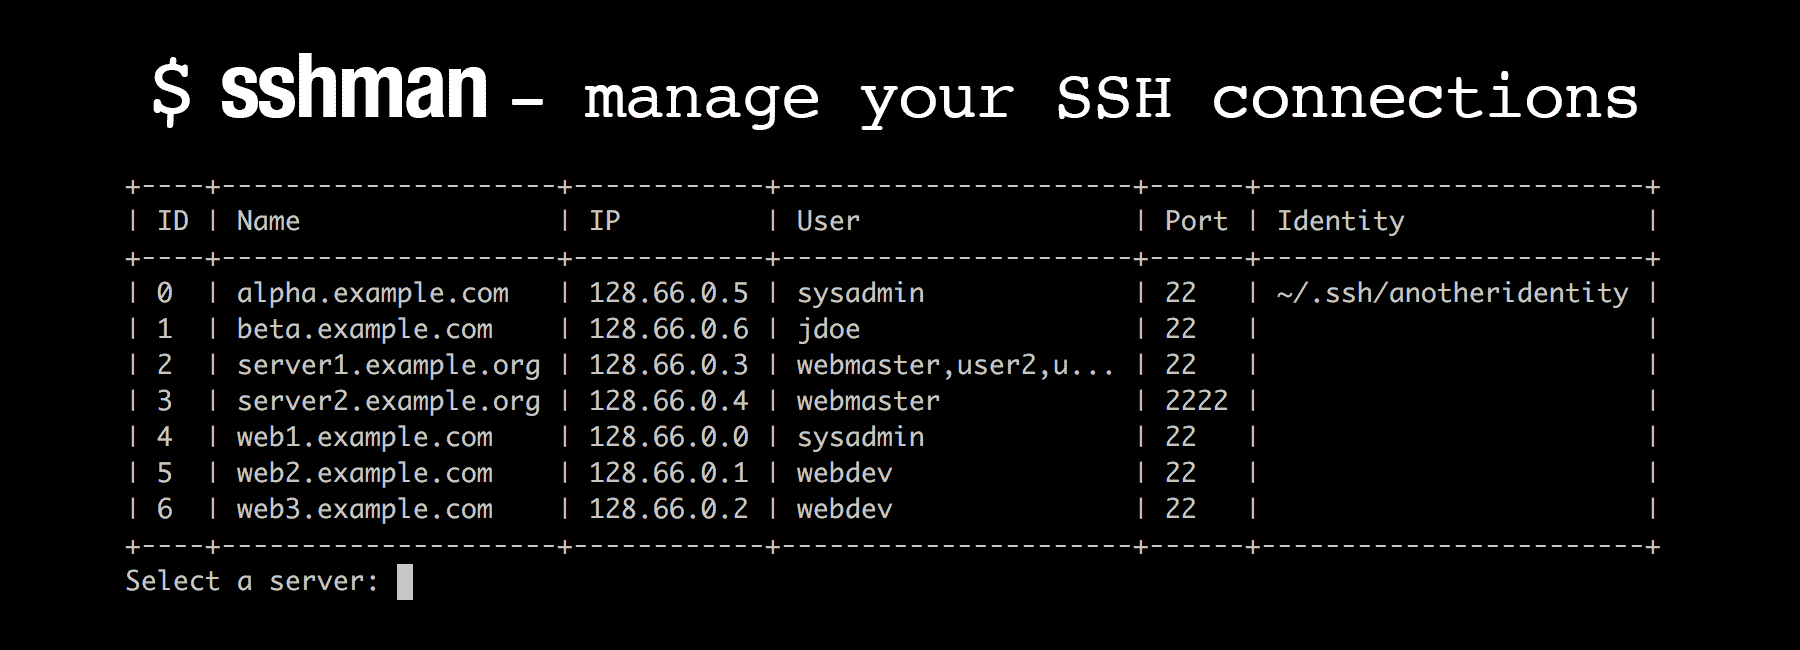
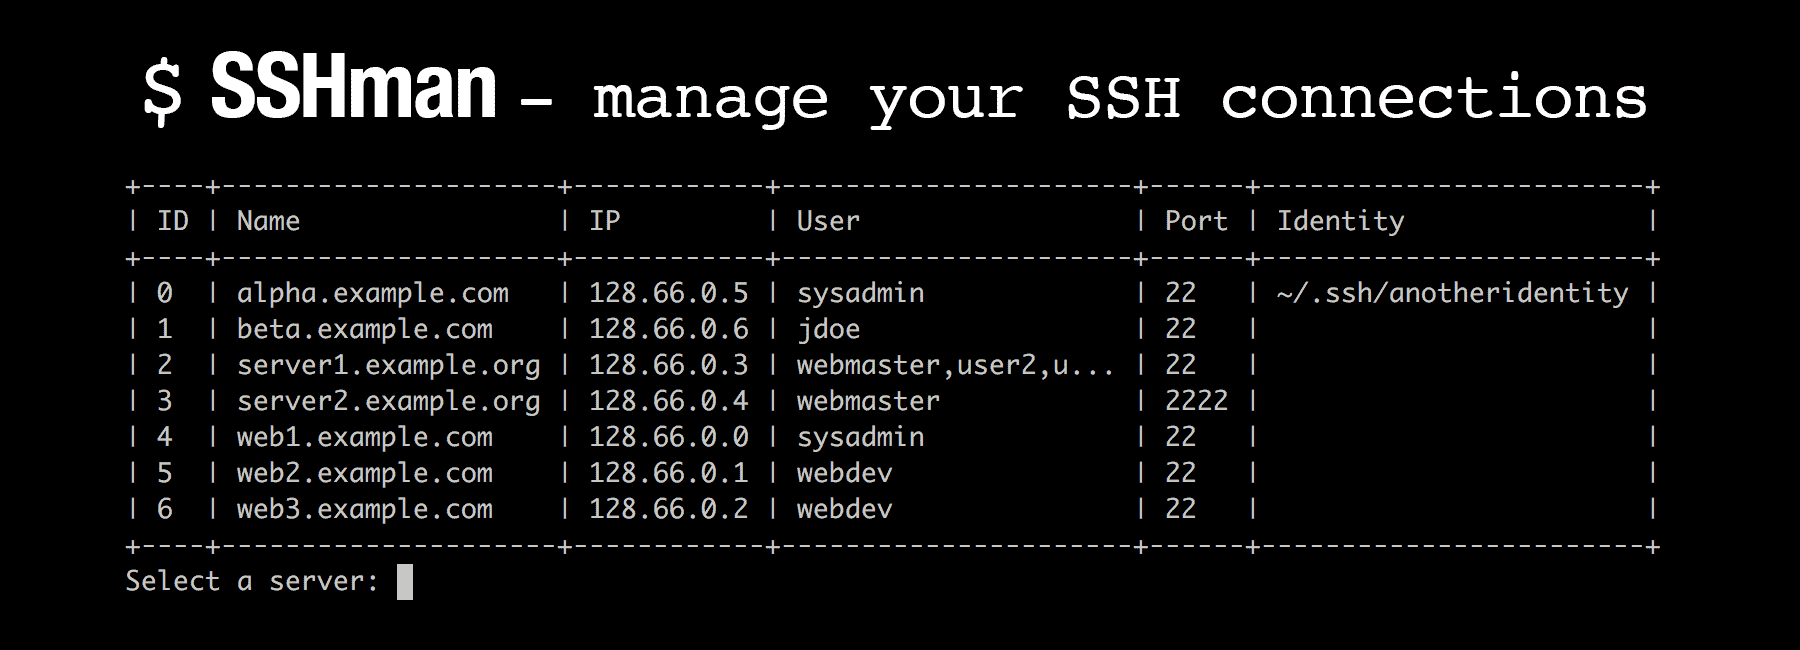
Final cleanup before v1.0.0, adding --help and --version options

Changed region(s): [[0.3111, 0.0923, 0.9333, 0.2154], [0.0622, 0.0615, 0.28, 0.1846]]

diff --git a/lib/fns/getopt.php b/lib/fns/getopt.php
@@ -1,0 +1,37 @@
+<?php
+
+namespace sshman\lib\fns\getopt;
+
+$options = getopt( 'vh', ['version','help'] );
+if( isset( $options['v'] ) || isset( $options['version'] ) ){
+    $version = file_get_contents('VERSION');
+    echo "\033[33m" . '[SSHman](https://github.com/mwender/sshman) - Version ' . $version . "\033[0m" . "\n\n";
+    display_file( 'LICENSE' );
+    exit;
+}
+if( isset( $options['h'] ) || isset( $options['help'] ) ){
+    display_file( 'HELP' );
+    exit;
+}
+
+function display_file( $file ){
+  if( empty( $file ) )
+    return false;
+
+  if( ! file_exists( $file ) )
+    return false;
+
+  $contents = file( $file );
+  foreach( $contents as $line ){
+    if( stristr( $line, '{version}') ){
+      $version = file_get_contents('VERSION');
+      $line = str_replace( '{version}', $version, $line );
+    }
+
+    if( '# ' == substr( $line, 0, 2 ) )
+      $line = "\033[33m" . substr($line, 2 ) . "\033[0m";
+    echo $line;
+  }
+
+  return true;
+}

diff --git a/sshman.php b/sshman.php
@@ -1,7 +1,8 @@
 #!/usr/bin/env php
 <?php
 require 'vendor/autoload.php';
-require 'lib/fns/fns.helpers.php';
+require 'lib/fns/helpers.php';
+require 'lib/fns/getopt.php';
 
 /**
  * OS CHECK
@@ -80,21 +81,6 @@ $users = array(
 
 // LOGIC
 echo exec( 'clear' );
-
-// Sub-commands via the first argument passed
-if( ! empty( $argv[1] ) ){
-	$parameter1 = $argv[1];
-	switch ( $parameter1 ) {
-		case 'update':
-			require_once('lib/fns/update.php');
-			exit;
-		break;
-		case 'rollback':
-			require_once('lib/fns/rollback.php');
-			exit;
-		break;
-	}
-}
 
 // Select a server
 $servers_table->display();

diff --git a/readme.md b/readme.md
@@ -1,14 +1,14 @@
-# sshman
+# SSHman - *manage your SSH connections*
 
-![sshman - manage your SSH connections](https://raw.githubusercontent.com/mwender/sshman/master/lib/img/sshman-image.png)
+![SSHman - manage your SSH connections](https://raw.githubusercontent.com/mwender/sshman/master/lib/img/sshman-image.png)
 
-A command line tool for managing your ssh connections.
+*SSHman* is a command line tool for managing your ssh connections.
 
 ## Installation
 
-*sshman* is available for installation on your system via [PHIVE](https://phar.io). Once you've installed PHIVE on your system, you can install *sshman* with the following command:
+*SSHman* is currently available for MacOS only. Install it on your system via [PHIVE](https://phar.io). Once you've installed PHIVE on your system, you can install *SSHman* with the following command:
 
-$`phive install mwender/sshman`
+$`phive install sshman`
 
 Installing with PHIVE takes care of the following:
 
@@ -30,6 +30,17 @@ server2.example.com,223.14.56.89,"sysadmin,webdev,user3",2222
 
 [![asciicast](https://asciinema.org/a/117973.png)](https://asciinema.org/a/117973)
 
+## Changelog
+
+### Version 1.0.0
+
+- Initial release
+- Supports multiple users per server by specifying users in a comma separated list (e.g. `admin,sysadmin,root,user1,user2`)
+- Option to specify the SSH port for your connection
+- Option to specify the identity file for your connection
+
+---
+
 ## Building/Compiling
 
-Build sshman.phar by running `box build`.
+I use [Box](https://github.com/box-project/box2) to build *SSHman*. Once you have *Box* installed on your system, you can build *sshman.phar* by running `box build`.
